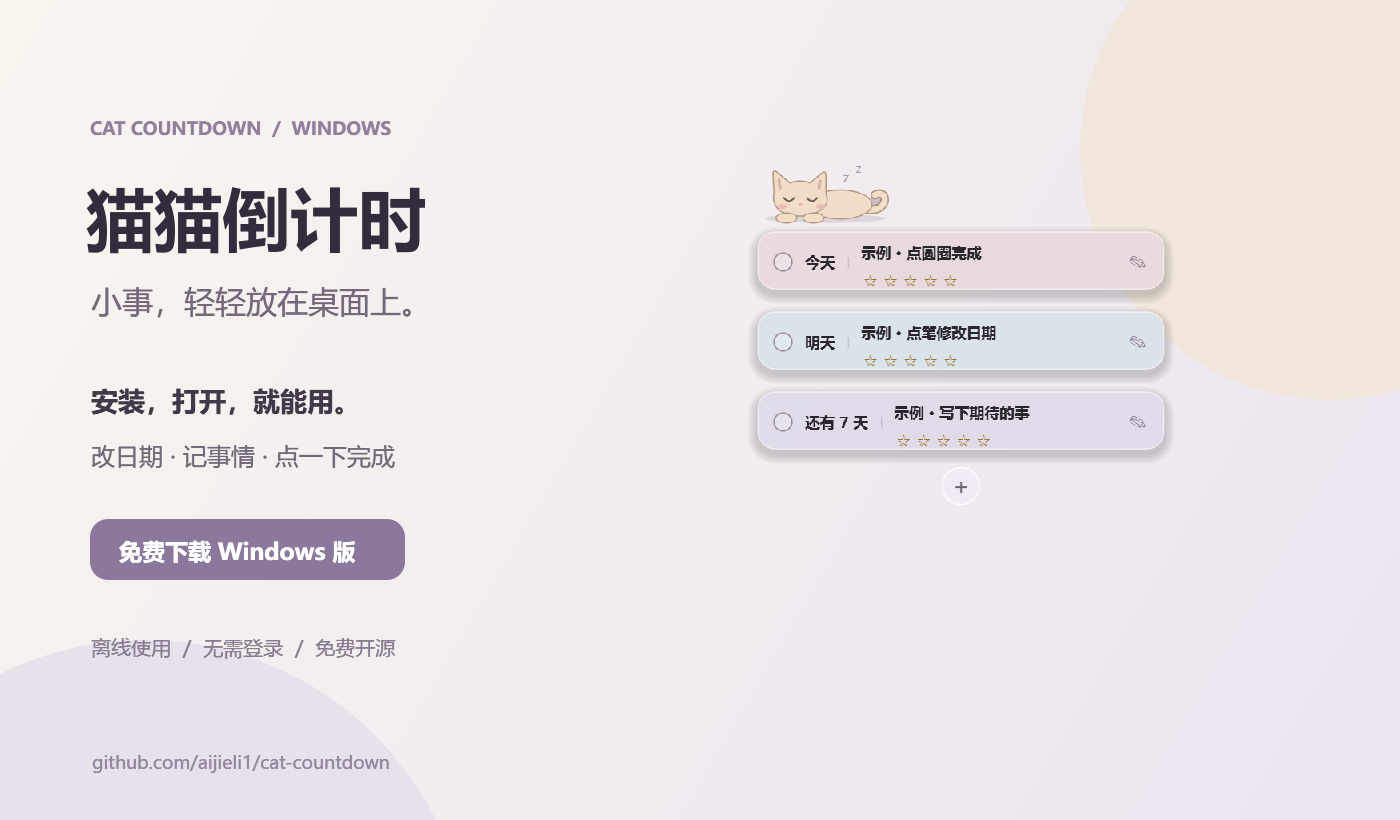
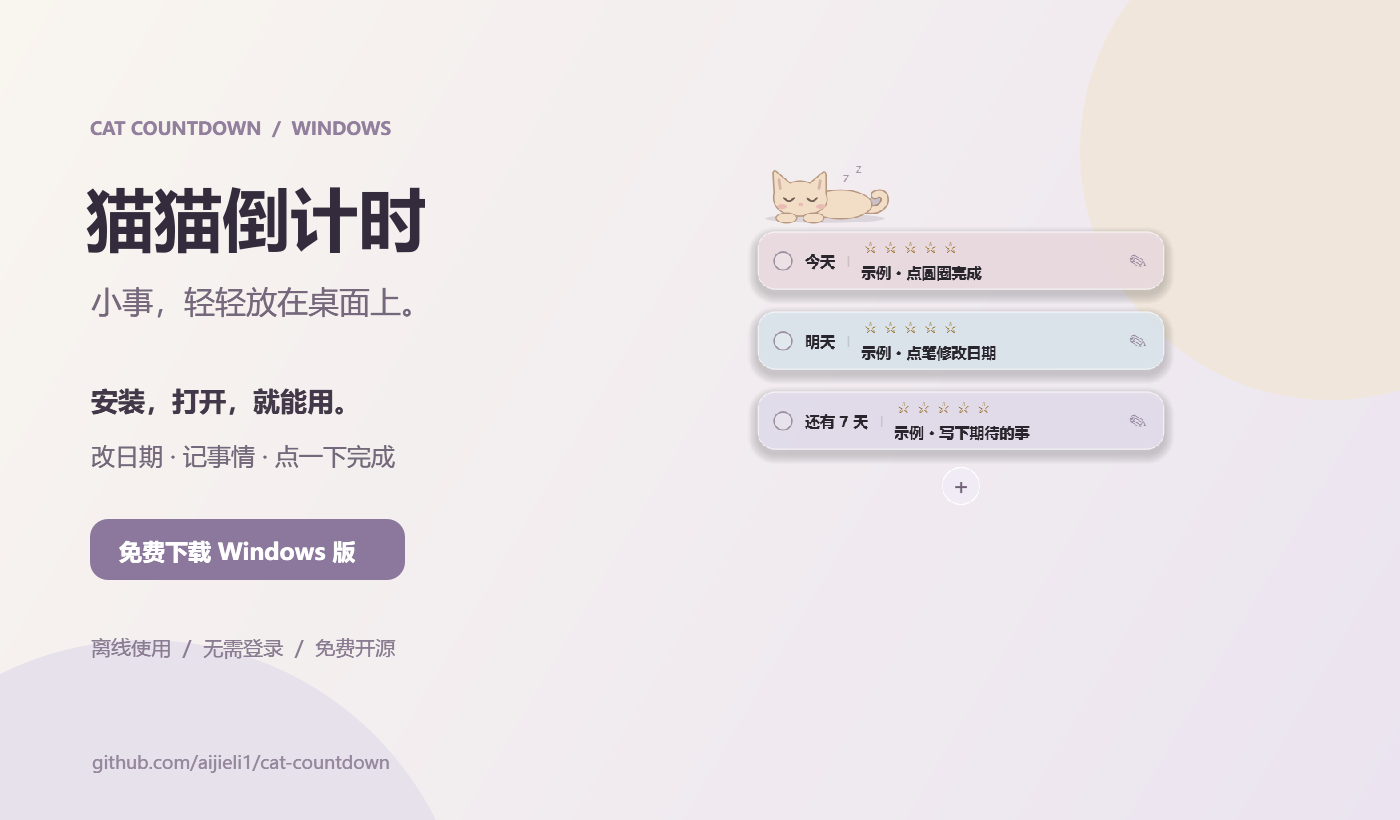
Place importance stars above titles with balanced card padding

diff --git a/main.py b/main.py
@@ -294,7 +294,7 @@ class Card(DragSurface):
         self.setFixedHeight(80)
         self._fading = False
         row = QHBoxLayout(self)
-        row.setContentsMargins(23, 8, 27, 17)
+        row.setContentsMargins(23, 10, 27, 21)
         row.setSpacing(7)
         self.dot = CompleteButton(task["title"])
         self.dot.clicked.connect(self.complete)
@@ -308,10 +308,10 @@ class Card(DragSurface):
         content = QWidget()
         details = QVBoxLayout(content)
         details.setContentsMargins(0, 0, 0, 0)
-        details.setSpacing(0)
-        details.addWidget(self.title, 0, Qt.AlignLeft)
+        details.setSpacing(2)
         self.stars = Stars(task.get('importance', 0), lambda value: on_rate(self.task, value))
         details.addWidget(self.stars, 0, Qt.AlignLeft)
+        details.addWidget(self.title, 0, Qt.AlignLeft)
         row.addWidget(content, 1)
         self.edit_button = QPushButton("✎")
         self.edit_button.setFixedSize(24, 30)

diff --git a/README.md b/README.md
@@ -6,7 +6,7 @@
 
 一个简单、离线、带小猫的 Windows 桌面倒计时浮窗。安装后就能用。
 
-[![下载 Windows 安装包](https://img.shields.io/badge/下载_Windows_安装包-猫猫倒计时-927CA3?style=for-the-badge&logo=windows&logoColor=white)](https://github.com/aijieli1/cat-countdown/releases/latest/download/CatCountdown-Setup-1.1.0-Windows-x64.exe)
+[![下载 Windows 安装包](https://img.shields.io/badge/下载_Windows_安装包-猫猫倒计时-927CA3?style=for-the-badge&logo=windows&logoColor=white)](https://github.com/aijieli1/cat-countdown/releases/latest/download/CatCountdown-Setup-1.1.1-Windows-x64.exe)
 
 [所有版本](https://github.com/aijieli1/cat-countdown/releases) · [反馈问题](https://github.com/aijieli1/cat-countdown/issues) · [English](#english)
 
@@ -16,7 +16,7 @@
 
 ## 下载，安装，就在桌面上
 
-1. **[下载 Windows 安装包](https://github.com/aijieli1/cat-countdown/releases/latest/download/CatCountdown-Setup-1.1.0-Windows-x64.exe)**。
+1. **[下载 Windows 安装包](https://github.com/aijieli1/cat-countdown/releases/latest/download/CatCountdown-Setup-1.1.1-Windows-x64.exe)**。
 2. 双击，点 **安装**。不需要 Python、不需要注册、不需要管理员权限。
 3. 猫猫和 **三条明确标注“示例”的任务** 出现在桌面上。直接改成自己的事情就好。
 
@@ -116,4 +116,4 @@ ISCC.exe installer.iss
 - Drag to move; launch again to bring the existing window back to the main screen.
 - Windows 10/11 x64. The current interface is in Chinese.
 
-[Download the Windows installer](https://github.com/aijieli1/cat-countdown/releases/latest/download/CatCountdown-Setup-1.1.0-Windows-x64.exe) · [Report a bug](https://github.com/aijieli1/cat-countdown/issues)
+[Download the Windows installer](https://github.com/aijieli1/cat-countdown/releases/latest/download/CatCountdown-Setup-1.1.1-Windows-x64.exe) · [Report a bug](https://github.com/aijieli1/cat-countdown/issues)

diff --git a/RELEASE_NOTES.md b/RELEASE_NOTES.md
@@ -1,8 +1,6 @@
-# 猫猫倒计时 v1.1.0
+# 猫猫倒计时 v1.1.1
 
-- 新增五颗星重要程度：卡片直接点选，也能在新增/编辑窗口设置。
-- 随时改为1～5星，再点当前星级清除；已有任务默认未标星。
-- 收紧倒计时和分隔线间距，星级放在事件下方，给标题更多空间。
-- 继续按日期从近到远排序，升级保留任务和位置。
+- 五颗星移到事件文字上方，增加上下留白，不再贴着卡片底部。
+- 五星可直接修改或清除，日期排序、任务与位置记录保持不变。
 
-下载 `CatCountdown-Setup-1.1.0-Windows-x64.exe`，双击安装即可升级。Windows 10/11 x64，无需Python。当前安装包未签名，可能出现未知发布者提示。
+下载 `CatCountdown-Setup-1.1.1-Windows-x64.exe` 双击升级。Windows 10/11 x64，无需Python。当前安装包未签名，可能出现未知发布者提示。
